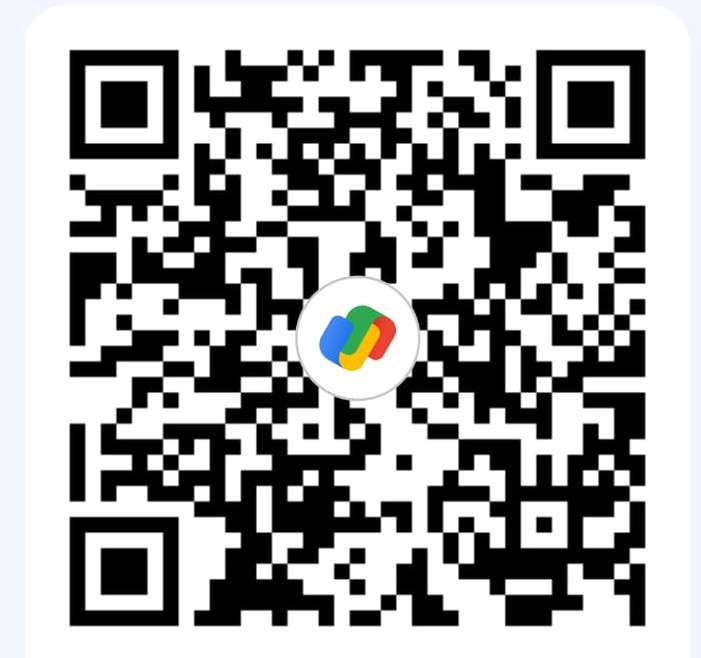
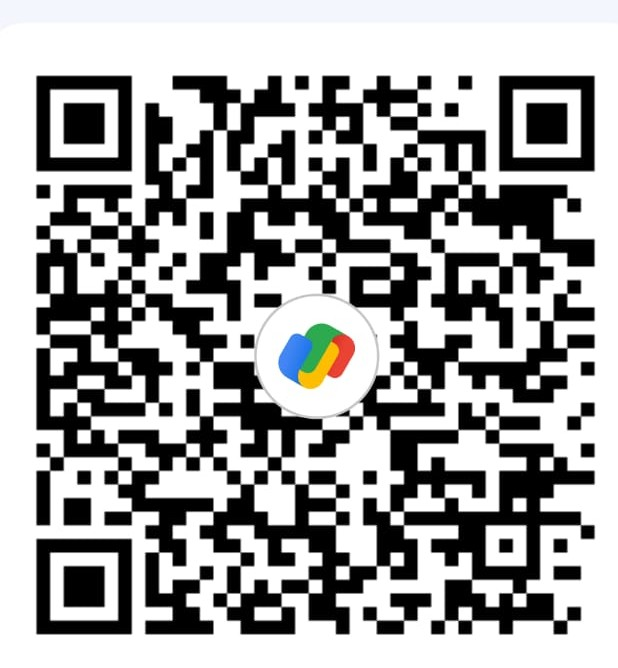
feat: update payment section with new q.code1.jpeg QR code

diff --git a/src/components/RegistrationPage.jsx b/src/components/RegistrationPage.jsx
@@ -4,7 +4,7 @@ import { supabase } from '../lib/supabase';
 import confiqLogo from '../assets/CONFIQ.png';
 import vectorSmartObject from '../assets/Vector Smart Object.png';
 import group8Img from '../assets/Group 8.png';
-import qrCodeImg from '../assets/q.code.jpeg';
+import qrCodeImg from '../assets/q.code1.jpeg';
 import {
   CheckCircle, Printer, User, Phone, MapPin,
   Award, Briefcase, GraduationCap, Sparkles, Copy,
@@ -749,7 +749,7 @@ export default function RegistrationPage({ onOpenAdmin }) {
       <footer className="bg-[#17472B] text-white/80 py-6 border-t border-[#387B52]/40 text-xs">
         <div className="max-w-5xl mx-auto px-4 text-center space-y-1">
           <p className="font-semibold text-[#C5DF9F]">
-            conFiqh 2026 Secretariat • Academic Summit for Applied Fiqh
+            CONFIQ 2026 Secretariat • Academic Summit for Applied Fiqh
           </p>
           <p className="text-white/60">
             Venue: Parapram, Pinarayi, Kannur • Dates: 11–12 September 2026

diff --git a/src/components/RegistrationModal.jsx b/src/components/RegistrationModal.jsx
@@ -1,7 +1,7 @@
 import React, { useState } from 'react';
 import confetti from 'canvas-confetti';
 import { supabase } from '../lib/supabase';
-import qrCodeImg from '../assets/q.code.jpeg';
+import qrCodeImg from '../assets/q.code1.jpeg';
 import {
   X, CheckCircle, Printer, QrCode, User, Mail, Phone, MapPin,
   BookOpen, Award, Briefcase, GraduationCap, Sparkles, Copy,
